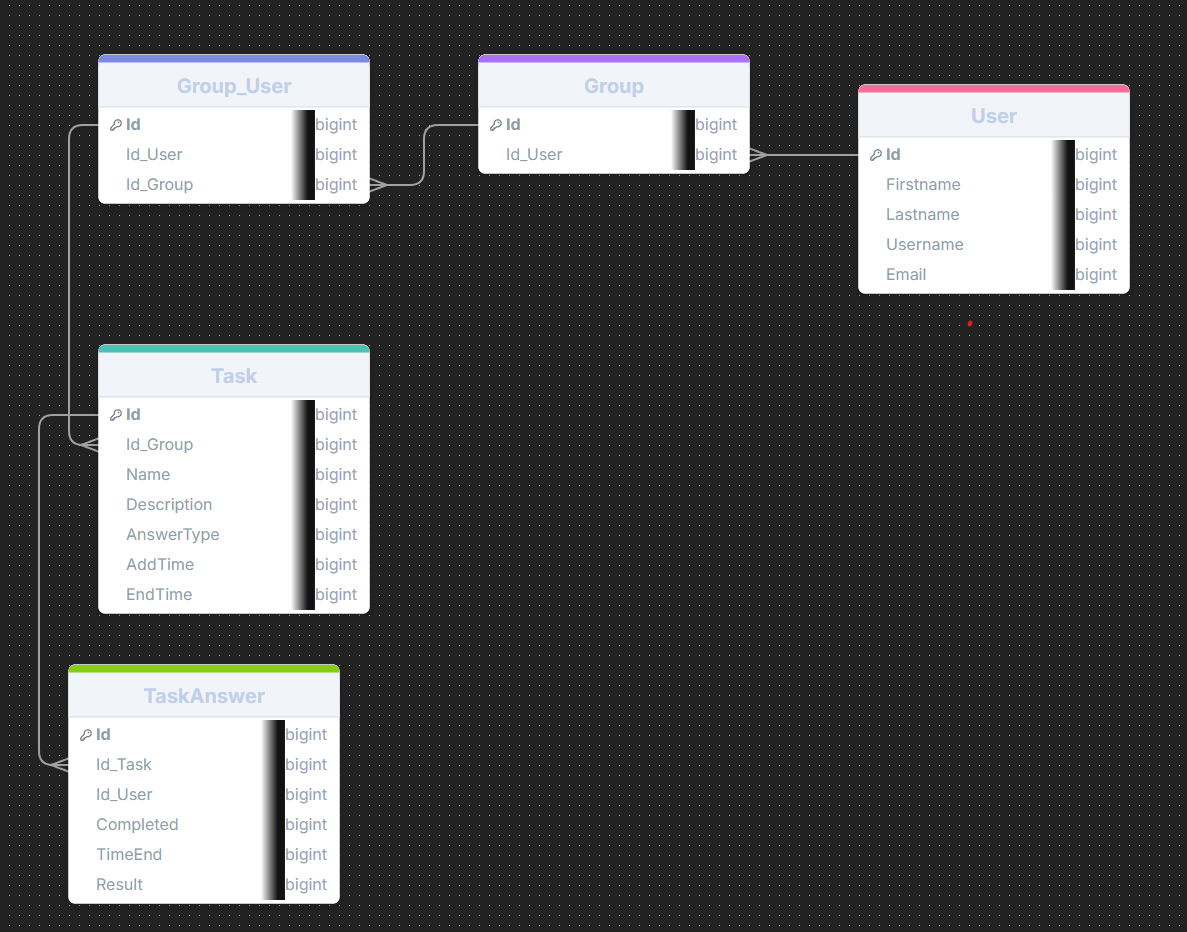
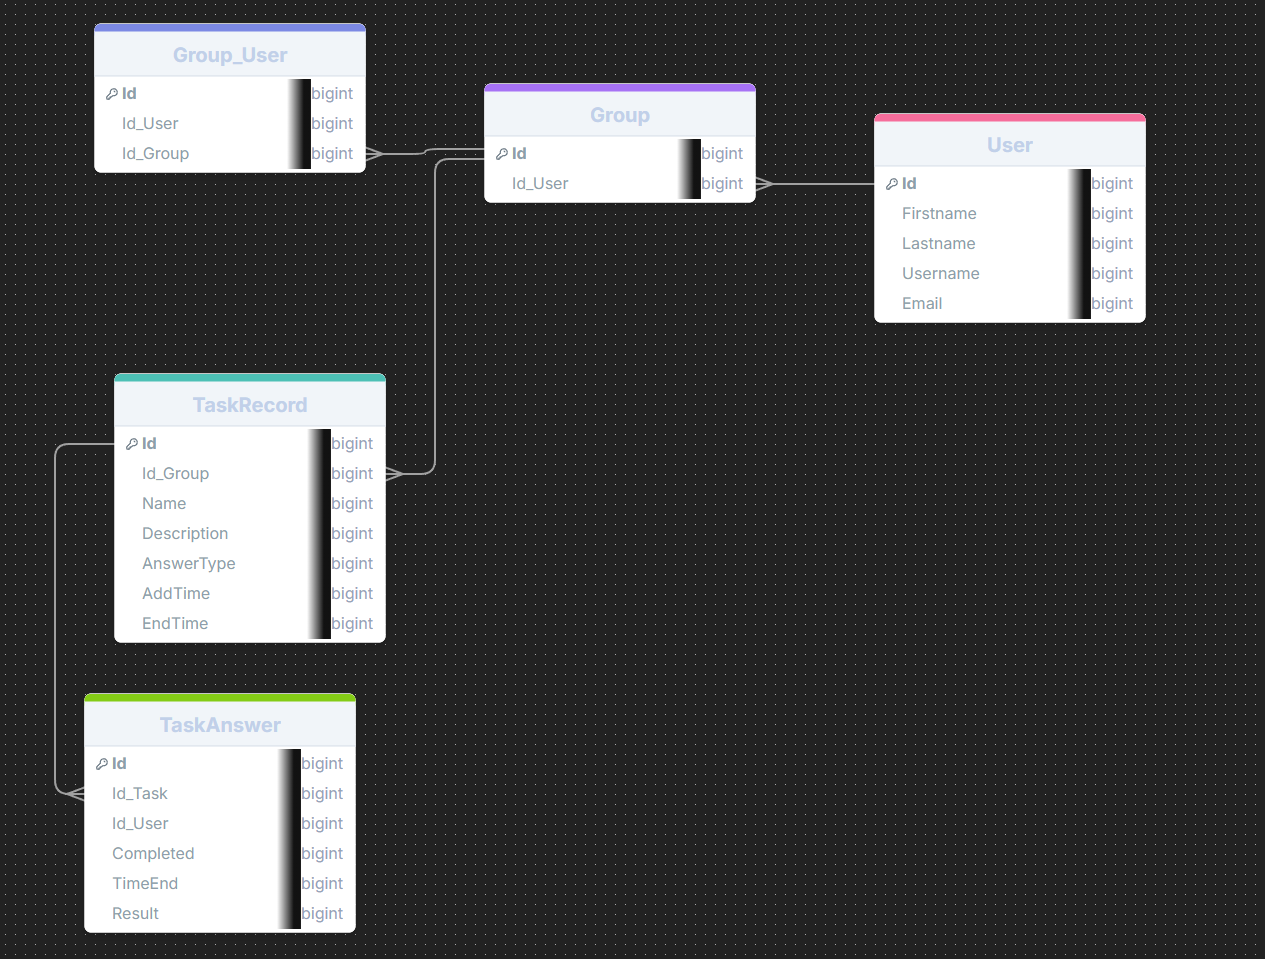
Initial database and relationship model.

Changed region(s): [[0.0312, 0.3423, 0.3429, 0.9957], [0.0623, 0.0, 0.6546, 0.2178], [0.6858, 0.0622, 0.9663, 0.3423]]

diff --git a/GroupTaskManager/GroupTaskManager.Database/DatabaseContext.cs b/GroupTaskManager/GroupTaskManager.Database/DatabaseContext.cs
@@ -8,9 +8,38 @@ namespace GroupTaskManager.GroupTaskManager.Database
     {
         public DatabaseContext(DbContextOptions<DatabaseContext> options) : base(options) { }
 
+        DbSet<UserModel> UserModel {  get; set; }
+        DbSet<Group> Group { get; set; }
+        DbSet<Group_User> Group_User { get; set; }
+        DbSet<TaskRecord> TaskRecord { get; set; }
+        DbSet<TaskAnswer> TaskAnswer { get; set; }
+
 
         protected override void OnModelCreating(ModelBuilder modelBuilder)
         {
+            modelBuilder.Entity<Group>()
+                .HasOne(g => g.User)
+                .WithMany(u => u.Group)
+                .HasForeignKey(f => f.Id_User);
+
+            modelBuilder.Entity<Group_User>()
+                .HasOne(g => g.Group)
+                .WithMany(u => u.Group_User)
+                .HasForeignKey(f => f.Id_Group)
+                .OnDelete(DeleteBehavior.Restrict);
+
+            modelBuilder.Entity<TaskRecord>()
+                .HasOne(g => g.Group)
+                .WithMany(u => u.TaskRecord)
+                .HasForeignKey(f => f.Id_Group)
+                .OnDelete(DeleteBehavior.Cascade);
+
+            modelBuilder.Entity<TaskAnswer>()
+                .HasOne(g => g.TaskRecord)
+                .WithMany(u => u.TaskAnswer)
+                .HasForeignKey(f => f.Id_Task);
+
+
             base.OnModelCreating(modelBuilder);
         }
     }

diff --git a/GroupTaskManager/GroupTaskManager.Database/TaskRecord.cs b/GroupTaskManager/GroupTaskManager.Database/TaskRecord.cs
@@ -1,0 +1,31 @@
+using System.ComponentModel.DataAnnotations;
+
+namespace GroupTaskManager.GroupTaskManager.Database
+{
+    public class TaskRecord
+    {
+        [Key]
+        public int Id { get; set; }
+        public int Id_Group { get; set; }
+
+        [Required(ErrorMessage = "Name is required.")]
+        [StringLength(100, ErrorMessage = "Name cannot exceed 100 characters.")]
+        public string Name { get; set; }
+
+        [StringLength(1000, ErrorMessage = "Description cannot exceed 1000 characters.")]
+        public string Description { get; set; }
+
+        [Required(ErrorMessage = "Answer type is required.")]
+        [StringLength(50, ErrorMessage = "Answer type cannot exceed 50 characters.")]
+        public string AnswerType { get; set; }
+
+        [Required(ErrorMessage = "Add time is required.")]
+        public DateTime AddTime { get; set; }
+
+        [Required(ErrorMessage = "End time is required.")]
+        public DateTime EndTime { get; set; }
+
+        public Group Group { get; set; }
+        public List<TaskAnswer> TaskAnswer { get; set; } = new List<TaskAnswer>();
+    }
+}

diff --git a/GroupTaskManager/GroupTaskManager.Database/UserModel.cs b/GroupTaskManager/GroupTaskManager.Database/UserModel.cs
@@ -1,10 +1,19 @@
 using Microsoft.AspNetCore.Identity;
+using System.ComponentModel.DataAnnotations;
 
 namespace GroupTaskManager.GroupTaskManager.Database
 {
     public class UserModel : IdentityUser
     {
+        [Required(ErrorMessage = "First name is required.")]
+        [StringLength(50, ErrorMessage = "First name cannot exceed 50 characters.")]
         public string? Firstname { get; set; }
+
+        [Required(ErrorMessage = "Last name is required.")]
+        [StringLength(50, ErrorMessage = "Last name cannot exceed 50 characters.")]
         public string? Lastname { get; set; }
+
+        // Initialize the list to avoid null reference exceptions
+        public List<Group> Group { get; set; } = new List<Group>();
     }
 }

diff --git a/GroupTaskManager/GroupTaskManager.Database/TaskAnswer.cs b/GroupTaskManager/GroupTaskManager.Database/TaskAnswer.cs
@@ -1,0 +1,19 @@
+using System.ComponentModel.DataAnnotations;
+
+namespace GroupTaskManager.GroupTaskManager.Database
+{
+    public class TaskAnswer
+    {
+        [Key]
+        public int Id { get; set; }
+        public int Id_Task { get; set; }
+        public string Id_User { get; set; }
+        public bool Completed { get; set; }
+        public DateTime? CompletedTime { get; set; }
+
+        [StringLength(1000, ErrorMessage = "Result cannot exceed 1000 characters.")]
+        public string Result { get; set; }
+
+        public TaskRecord TaskRecord { get; set; }
+    }
+}

diff --git a/GroupTaskManager/GroupTaskManager.Database/Group.cs b/GroupTaskManager/GroupTaskManager.Database/Group.cs
@@ -1,0 +1,15 @@
+using System.ComponentModel.DataAnnotations;
+
+namespace GroupTaskManager.GroupTaskManager.Database
+{
+    public class Group
+    {
+        [Key]
+        public int Id { get; set; }
+        public string Id_User { get; set; }
+
+        public UserModel User { get; set; }
+        public List<Group_User> Group_User { get; set; }
+        public List<TaskRecord> TaskRecord { get; set; }
+    }
+}

diff --git a/GroupTaskManager/GroupTaskManager.Database/Group_User.cs b/GroupTaskManager/GroupTaskManager.Database/Group_User.cs
@@ -1,0 +1,14 @@
+using System.ComponentModel.DataAnnotations;
+
+namespace GroupTaskManager.GroupTaskManager.Database
+{
+    public class Group_User
+    {
+        [Key]
+        public int Id { get; set; }
+        public string Id_User { get; set; }
+        public int Id_Group { get; set; }
+
+        public Group Group { get; set; }
+    }
+}
